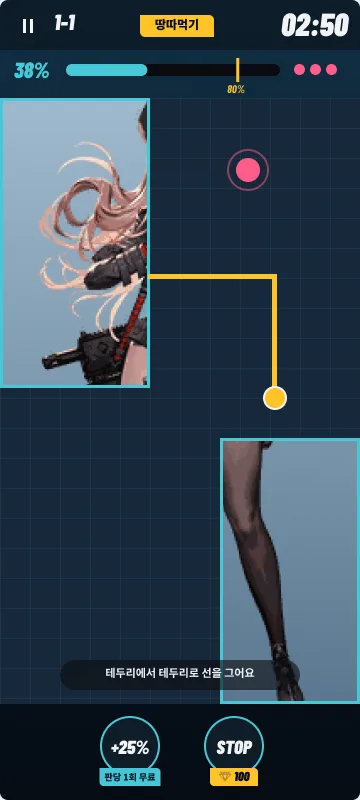
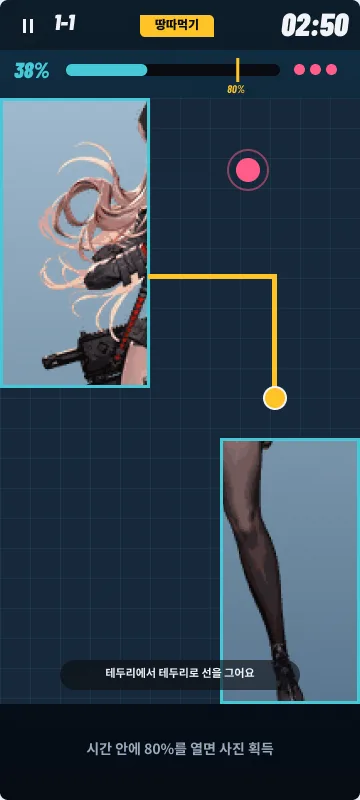
Proposal: launch cuts — no puzzle boosters, auto holo shimmer, 3 gem packs
Claude-Session: https://claude.ai/code/session_01QC4LnGUoEV4hPAaGSGh6GF

Changed region(s): [[0.2444, 0.875, 0.7639, 1.0]]

diff --git a/territory-romance-f2p-proposal.html b/territory-romance-f2p-proposal.html
@@ -248,11 +248,11 @@ footer{border-top:1px solid var(--line);padding-top:18px;color:var(--muted);font
  <div class="legend">
   <div><svg class="ic" aria-hidden="true"><use href="#i-gem"/></svg><div><b>젬 (ジェム)</b><span>게임 안 유일한 재화 · 유상/무상 내부 분리</span></div></div>
   <div><svg class="ic" aria-hidden="true"><use href="#i-heart"/></svg><div><b>친밀도 (好感度)</b><span>캐릭터별 관계 수치 · 판매하지 않음</span></div></div>
-  <div class="none"><div><b>에너지 · 아이템 없음</b><span>퍼즐 입장은 무료 · 부스터는 젬으로 그 자리에서 사용</span></div></div>
+  <div class="none"><div><b>에너지 · 아이템 없음</b><span>퍼즐 입장 무료 · 런칭엔 부스터도 없음 (v1.1)</span></div></div>
  </div>
  <div class="money">
   <div class="mcard"><img src="japan-project/proposal-screens/l2-locked.webp" alt="" loading="lazy"><div><h3>캐릭터 바로 열기</h3><div class="price"><svg class="ic" aria-hidden="true"><use href="#i-gem"/></svg>1,000</div><p>접근만 앞당김. 사진·친밀도는 0부터.</p></div></div>
-  <div class="mcard"><img src="japan-project/proposal-screens/03-timeup.webp" alt="" loading="lazy"><div><h3>이어하기 · 방해물 정지</h3><div class="price"><svg class="ic" aria-hidden="true"><use href="#i-gem"/></svg>100~150</div><p>사진 직전 실패에서 +30초 (150) · 방해물 정지 (100). +25% 공개는 판당 1회 무료. 첫 결제 스타터 팩 ¥980.</p></div></div>
+  <div class="mcard"><img src="japan-project/proposal-screens/03-timeup.webp" alt="" loading="lazy"><div><h3>이어하기</h3><div class="price"><svg class="ic" aria-hidden="true"><use href="#i-gem"/></svg>150</div><p>사진 직전 실패에서 +30초. 퍼즐 결제 지점은 이것 하나. 첫 결제 스타터 팩 ¥980.</p></div></div>
   <div class="mcard"><img src="japan-project/proposal-screens/06-bond.webp" alt="" loading="lazy"><div><h3>추가 답장</h3><div class="price"><svg class="ic" aria-hidden="true"><use href="#i-gem"/></svg>20 / 회</div><p>무료 5회를 다 썼는데 <svg class="ic" aria-hidden="true"><use href="#i-heart"/></svg>(친밀도)가 모자랄 때.</p></div></div>
   <div class="mcard"><img src="japan-project/proposal-screens/e1-repull.webp" alt="" loading="lazy"><div><h3>엔딩 다시 뽑기</h3><div class="price"><svg class="ic" aria-hidden="true"><use href="#i-gem"/></svg>300</div><p>R 70 · SR 25 · UR 5%. 5회째 SR↑ · 20회째 UR 확정.</p></div></div>
   <div class="mcard"><img src="japan-project/proposal-screens/p1-pass.webp" alt="" loading="lazy"><div><h3>캐릭터 루트 패스<span class="vt">v1.1</span></h3><div class="price">¥ 980</div><p>위 세 가지를 한 번에. 캐릭터당 1회.</p></div></div>
@@ -262,7 +262,7 @@ footer{border-top:1px solid var(--line);padding-top:18px;color:var(--muted);font
  <p class="sub"><svg class="ic" aria-hidden="true"><use href="#i-gem"/></svg>1 ≈ ¥1 (상점 기준). UR까지 가는 결제 유저 가정.</p>
  <table class="unit">
   <tr><td>엔딩 다시 뽑기 — UR까지 평균 11.8회 (UR 5% · 20회째 확정)</td><td>≈ ¥3,550</td></tr>
-  <tr><td>이어하기 · 방해물 정지 — 사진 4장 중 2번 사용 가정</td><td>≈ ¥300</td></tr>
+  <tr><td>이어하기 — 사진 4장 중 2번 사용 가정</td><td>≈ ¥300</td></tr>
   <tr><td>추가 답장 — 하루 3회 · 4일 가정</td><td>≈ ¥240</td></tr>
   <tr><td>캐릭터 바로 열기 — 선택 (진행 해금 대기 대신)</td><td>0 ~ ¥1,000</td></tr>
   <tr class="sum"><td>합계 · 캐릭터 1명당</td><td>≈ ¥4,000 ~ 5,000</td></tr>
@@ -298,16 +298,16 @@ footer{border-top:1px solid var(--line);padding-top:18px;color:var(--muted);font
  <div class="grid4">
   <figure class="shot"><img src="japan-project/proposal-screens/l2-locked.webp" alt="" loading="lazy"><figcaption><b>L-2 해금</b><span>사진 3장당 1명 무료 · <svg class="ic" aria-hidden="true"><use href="#i-gem"/></svg>1,000</span></figcaption></figure>
   <figure class="shot"><img src="japan-project/proposal-screens/e1-repull.webp" alt="" loading="lazy"><figcaption><b>E-1 다시 뽑기</b><span>확률 + 5회 SR↑ · 20회 UR</span></figcaption></figure>
-  <figure class="shot"><img src="japan-project/proposal-screens/s1-shop.webp" alt="" loading="lazy"><figcaption><b>S-1 상점</b><span>젬 6팩 + 첫 결제 스타터 팩 ¥980</span></figcaption></figure>
+  <figure class="shot"><img src="japan-project/proposal-screens/s1-shop.webp" alt="" loading="lazy"><figcaption><b>S-1 상점</b><span>젬 3팩 + 첫 결제 스타터 팩 ¥980</span></figcaption></figure>
   <figure class="shot"><img src="japan-project/proposal-screens/a1-album.webp" alt="" loading="lazy"><figcaption><b>A-1 앨범</b><span>사진 4 + 엔딩 등급 전환</span></figcaption></figure>
  </div>
  <div class="spec">
   <div><b>콘텐츠</b><p>캐릭터 4명 (첫 1명 무료)<br>캐릭터당 스탠딩 1 · 사진 4 · 엔딩 1구도 (R/SR/UR 차분)<br>퍼즐 10판 · 스토리 대화 8회 (선택지 고정 시나리오, LLM 없음)</p></div>
-  <div><b>시스템</b><p>땅따먹기 퍼즐 (입장 무료) · 이어하기 · 방해물 정지 · 2연속 실패 도움 모드<br><svg class="ic" aria-hidden="true"><use href="#i-heart"/></svg>(친밀도) 게이트 · 취향 태그 · 나쁜 답 기록 · 되돌리기 하루 1회 무료<br>엔딩 뽑기: 첫 1회 무료 · 확률 + 스텝업</p></div>
-  <div><b>경제</b><p>재화 <svg class="ic" aria-hidden="true"><use href="#i-gem"/></svg>(젬) 하나 (내부 유상/무상 분리)<br>무료 답장 5/일 → 이후 <svg class="ic" aria-hidden="true"><use href="#i-gem"/></svg>20 · 진행 해금 (사진 3장당 1명)<br>상점 6팩 + 스타터 팩 · 플랫폼 포인트 결제</p></div>
-  <div><b>연출 · 운영</b><p>UR = 정지 일러 + 홀로 셰이더 (기울이면 빛 이동)<br>플랫폼 로그인 · 결제 SDK · 서버 세이브<br>확률 표기 · 특상법 · 자금결제법 표기 · 컴프가챠 없음</p></div>
+  <div><b>시스템</b><p>땅따먹기 퍼즐 (입장 무료 · 부스터 없음) · 이어하기 · 2연속 실패 도움 모드<br><svg class="ic" aria-hidden="true"><use href="#i-heart"/></svg>(친밀도) 게이트 · 취향 태그 · 나쁜 답 기록 · 되돌리기 하루 1회 무료<br>엔딩 뽑기: 첫 1회 무료 · 확률 + 스텝업</p></div>
+  <div><b>경제</b><p>재화 <svg class="ic" aria-hidden="true"><use href="#i-gem"/></svg>(젬) 하나 (내부 유상/무상 분리)<br>무료 답장 5/일 → 이후 <svg class="ic" aria-hidden="true"><use href="#i-gem"/></svg>20 · 진행 해금 (사진 3장당 1명)<br>상점 3팩(¥1,000 · 3,000 · 5,000) + 스타터 팩 · 플랫폼 포인트 결제</p></div>
+  <div><b>연출 · 운영</b><p>UR = 정지 일러 + 자동으로 흐르는 무지개빛 (센서 없음)<br>플랫폼 로그인 · 결제 SDK · 서버 세이브<br>확률 표기 · 특상법 · 자금결제법 표기 · 컴프가챠 없음</p></div>
  </div>
- <div class="cut"><i>뺀 것</i>전체 보기·필터 · 취향 노트 화면 · 관계 등급 보너스 · 마음 콤보 · 루트 패스 · 일일 미션 · UR 애니 · 잠금 캐릭터 전용 애니 → 전부 업데이트로 이관</div>
+ <div class="cut"><i>뺀 것</i>전체 보기·필터 · 취향 노트 화면 · 관계 등급 보너스 · 마음 콤보 · 루트 패스 · 일일 미션 · UR 애니 · 기울이기 홀로 · 퍼즐 부스터 · 잠금 캐릭터 전용 애니 → 전부 업데이트로 이관</div>
 </section>
 
 <section id="update">
@@ -317,9 +317,10 @@ footer{border-top:1px solid var(--line);padding-top:18px;color:var(--muted);font
 
  <div class="vergroup">
   <h3><span class="vt" style="font-size:13px">v1.1</span>붙잡기 · 묶어 팔기</h3>
-  <div class="when">런칭 +1개월 [E] · 캐릭터 +2 · 신규 화면: 일일 미션 · 루트 패스 · 전체 보기/필터</div>
+  <div class="when">런칭 +1개월 [E] · 캐릭터 +2 · 신규 화면: 일일 미션 · 루트 패스 · 전체 보기/필터 · 퍼즐 부스터 2종</div>
   <div class="trig">앞당기는 조건: D7 리텐션 · 첫 결제 전환율</div>
   <div class="hl">
+   <figure><img src="japan-project/proposal-screens/h02-boost.webp" alt="" loading="lazy"><figcaption><b>02 퍼즐 + 부스터 2종</b><span>공개 +25% (판당 1회 무료) · 방해물 정지 <svg class="ic" aria-hidden="true"><use href="#i-gem"/></svg>100</span></figcaption></figure>
    <figure><img src="japan-project/proposal-screens/h01-all.webp" alt="" loading="lazy"><figcaption><b>01 로비 + 전체 보기 버튼</b><span>캐릭터 6명 넘으면 목록 · 필터 오픈</span></figcaption></figure>
    <figure><img src="japan-project/proposal-screens/h06a-pass.webp" alt="" loading="lazy"><figcaption><b>06 관계 + 루트 패스 링크</b><span>¥980 · 무료 답장 매일 +3 · 이어하기 3 · 다시 뽑기 3</span></figcaption></figure>
    <figure><img src="japan-project/proposal-screens/d1-daily.webp" alt="" loading="lazy"><figcaption><b>신규 · 일일 미션</b><span>하루 <svg class="ic" aria-hidden="true"><use href="#i-gem"/></svg>40 · 주간 <svg class="ic" aria-hidden="true"><use href="#i-gem"/></svg>100 (무상 젬)</span></figcaption></figure>
@@ -336,14 +337,14 @@ footer{border-top:1px solid var(--line);padding-top:18px;color:var(--muted);font
    <figure><img src="japan-project/proposal-screens/h05-combo.webp" alt="" loading="lazy"><figcaption><b>05 대화 + 마음 콤보</b><span>좋은 답 3연속이면 <svg class="ic" aria-hidden="true"><use href="#i-heart"/></svg>+2</span></figcaption></figure>
    <figure><img src="japan-project/proposal-screens/h06b-note.webp" alt="" loading="lazy"><figcaption><b>06 관계 + 취향 노트 · 관계 등급</b><span>알아낸 취향 수 → 등급 B/A/S</span></figcaption></figure>
    <figure><img src="japan-project/proposal-screens/h07-bonus.webp" alt="" loading="lazy"><figcaption><b>07 엔딩 뽑기 + 관계 등급 보너스</b><span>첫 뽑기만: A = SR 이상 확정 · S = UR 확률 3배</span></figcaption></figure>
-   <figure><img src="japan-project/proposal-screens/h08-live.webp" alt="" loading="lazy"><figcaption><b>08 결과 + UR 루프 애니</b><span>Live2D 움직임 · LIVE 표시</span></figcaption></figure>
+   <figure><img src="japan-project/proposal-screens/h08-live.webp" alt="" loading="lazy"><figcaption><b>08 결과 + UR 루프 애니</b><span>Live2D 움직임 · 기울이면 빛 이동 · LIVE 표시</span></figcaption></figure>
    <figure><img src="japan-project/proposal-screens/n1-note.webp" alt="" loading="lazy"><figcaption><b>신규 · 취향 노트</b><span>캐릭터당 취향 6개 · 관계 등급 조건</span></figcaption></figure>
   </div>
  </div>
 
  <div class="vergroup">
   <h3><span class="vt" style="font-size:13px">v1.3+</span>확장</h3>
-  <div class="when">런칭 +3개월~ · 퍼즐 방해물 · 부스터 추가 · 이벤트 캐릭터(기간 한정) · AI 자유 대화 (LLM 비용 검증 후)</div>
+  <div class="when">런칭 +3개월~ · 퍼즐 방해물 종류 추가 · 이벤트 캐릭터(기간 한정) · AI 자유 대화 (LLM 비용 검증 후)</div>
   <div class="trig">앞당기는 조건: 퍼즐 클리어율 · 콘텐츠 소진 속도</div>
  </div>
 </section>
